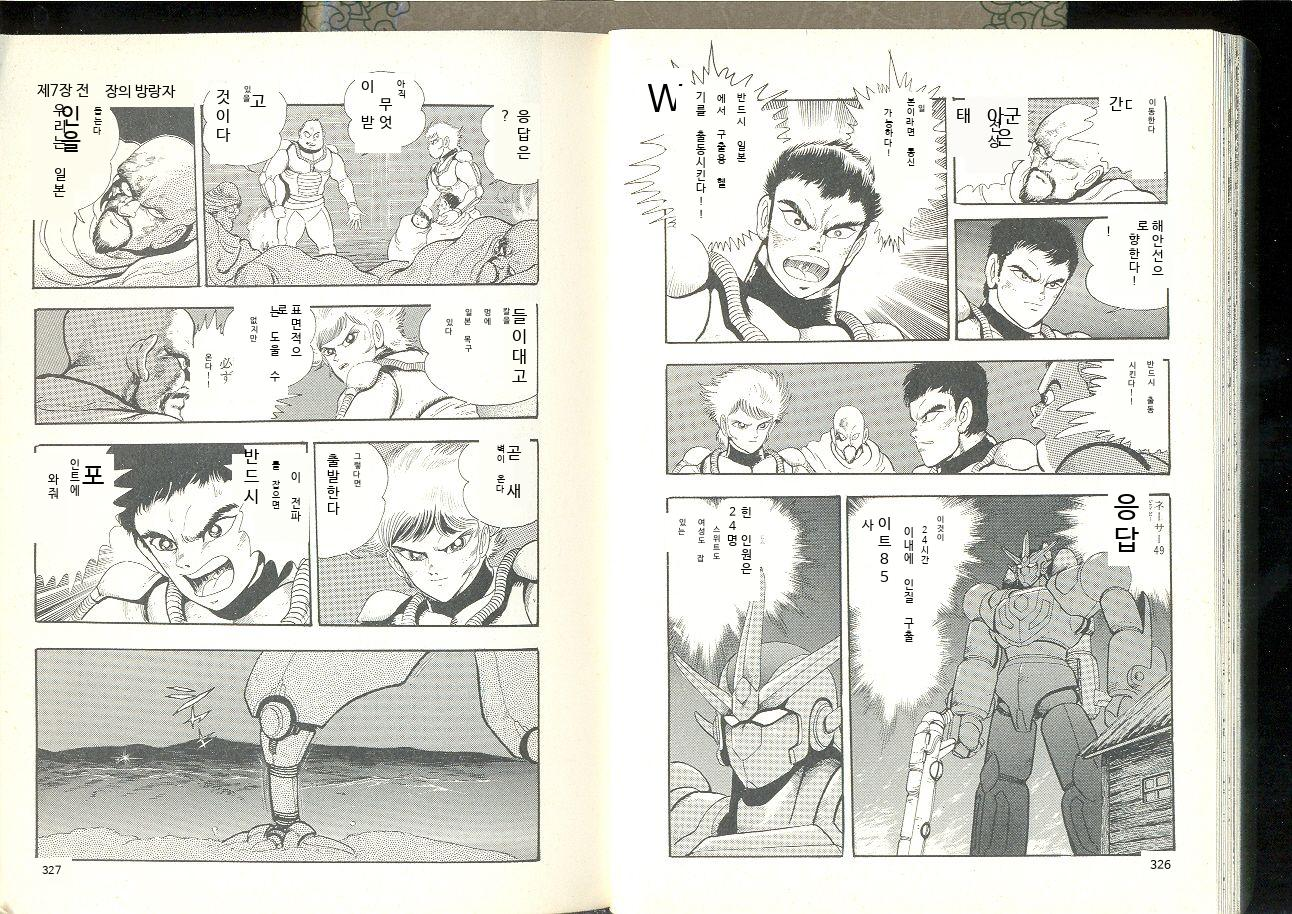
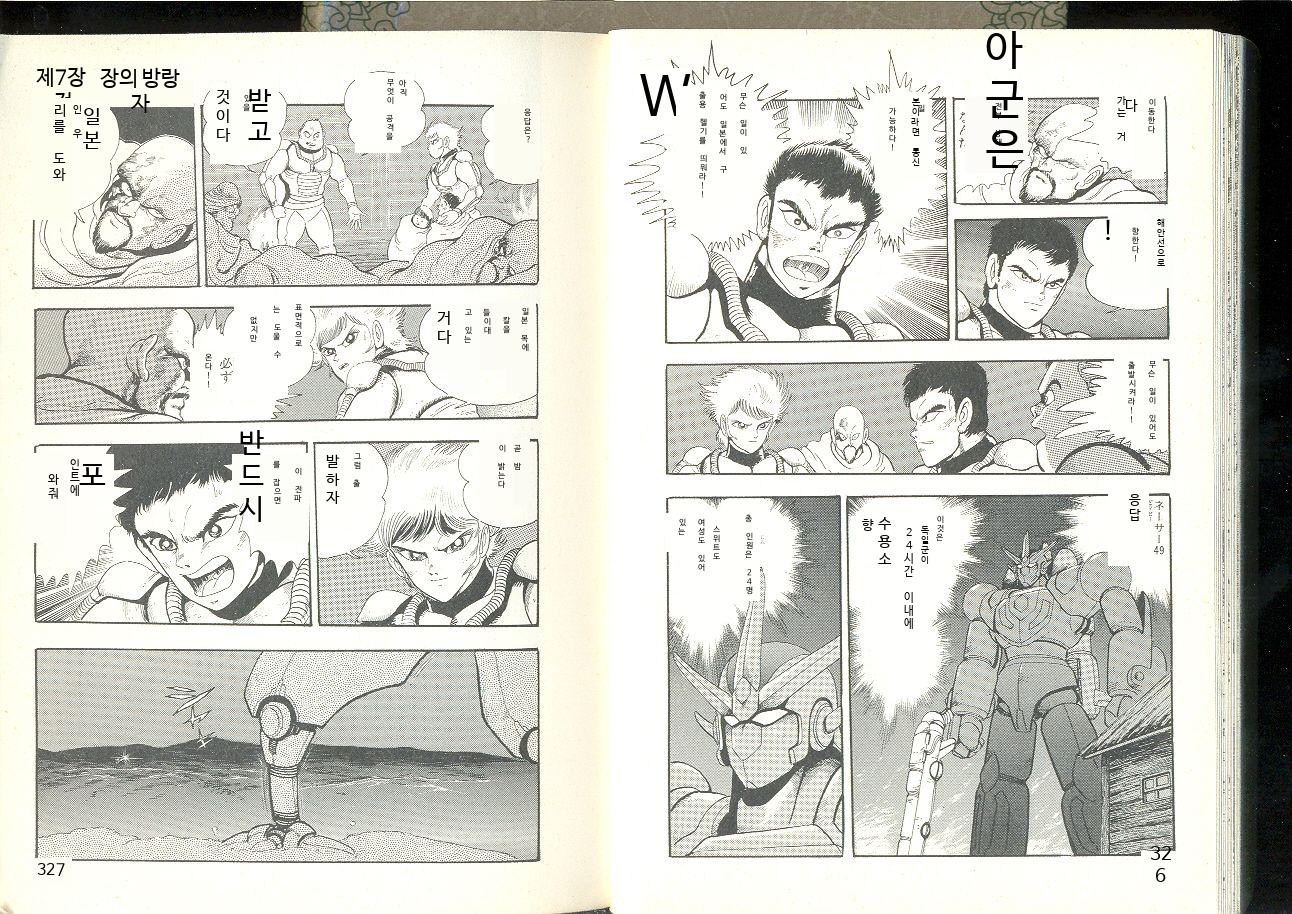
fix(render): 원본 bbox에서 폰트 크기 추정
- 면적 기반 역산 → 원본 bbox 크기에서 직접 추정
- 세로쓰기(h>w): 폭 = 폰트 크기, 가로쓰기(w>h): 높이 = 폰트 크기
- 그룹 내 평균으로 통일하여 원본과 같은 크기감 유지
- 데모 이미지 업데이트

diff --git a/render.py b/render.py
@@ -222,17 +222,26 @@ def run_render(
             _erase_rect(draw, img, bx1, by1, bx2, by2)
             bbox_rects.append((bx1, by1, bx2, by2))
 
-        # 2단계: 그룹 내 통일 폰트 크기 결정
-        # 전체 면적 합과 텍스트 길이로 폰트 크기 추정
-        total_area = sum((r[2] - r[0]) * (r[3] - r[1]) for r in bbox_rects) or 1
-        n = len(translated)
-        unified_size = int(math.sqrt(total_area / max(1, n * LINE_SPACING)))
-        # 가장 좁은 bbox 폭을 넘지 않도록
-        min_box_w = min((r[2] - r[0]) for r in bbox_rects)
-        unified_size = max(MIN_FONT_SIZE, min(unified_size, min_box_w))
+        # 2단계: 원본 bbox에서 폰트 크기 추정 (그룹 내 통일)
+        # 세로쓰기(h>w): 폭 ≈ 폰트 크기, 가로쓰기(w>h): 높이 ≈ 폰트 크기
+        estimated_sizes = []
+        for bx1, by1, bx2, by2 in bbox_rects:
+            bw, bh = bx2 - bx1, by2 - by1
+            if bw <= 0 or bh <= 0:
+                continue
+            if bh > bw * 1.5:
+                estimated_sizes.append(bw)  # 세로쓰기: 폭 = 폰트 크기
+            else:
+                estimated_sizes.append(bh)  # 가로쓰기: 높이 = 폰트 크기
+        unified_size = (
+            max(MIN_FONT_SIZE, int(sum(estimated_sizes) / len(estimated_sizes)))
+            if estimated_sizes
+            else MIN_FONT_SIZE
+        )
 
         # 3단계: 텍스트를 각 bbox에 면적 비율로 분배하여 렌더링
         bbox_areas = [(r[2] - r[0]) * (r[3] - r[1]) for r in bbox_rects]
+        total_area = sum(bbox_areas) or 1
         text_remaining = translated
 
         for i, (bx1, by1, bx2, by2) in enumerate(bbox_rects):

diff --git a/tests/test_render.py b/tests/test_render.py
@@ -348,11 +348,11 @@ class TestRenderBboxSizeConstraint:
         img_path = _make_test_image(
             tmp_path, width=400, height=300, color=(255, 255, 255)
         )
-        bbox = [[50, 50], [150, 50], [150, 100], [50, 100]]  # 100x50
+        bbox = [[50, 50], [250, 50], [250, 100], [50, 100]]  # 200x50
         translations = [
             {
                 "original_texts": ["テスト"],
-                "translated": "이것은 테스트 문장입니다",
+                "translated": "테스트",
                 "bboxes": [bbox],
             }
         ]
